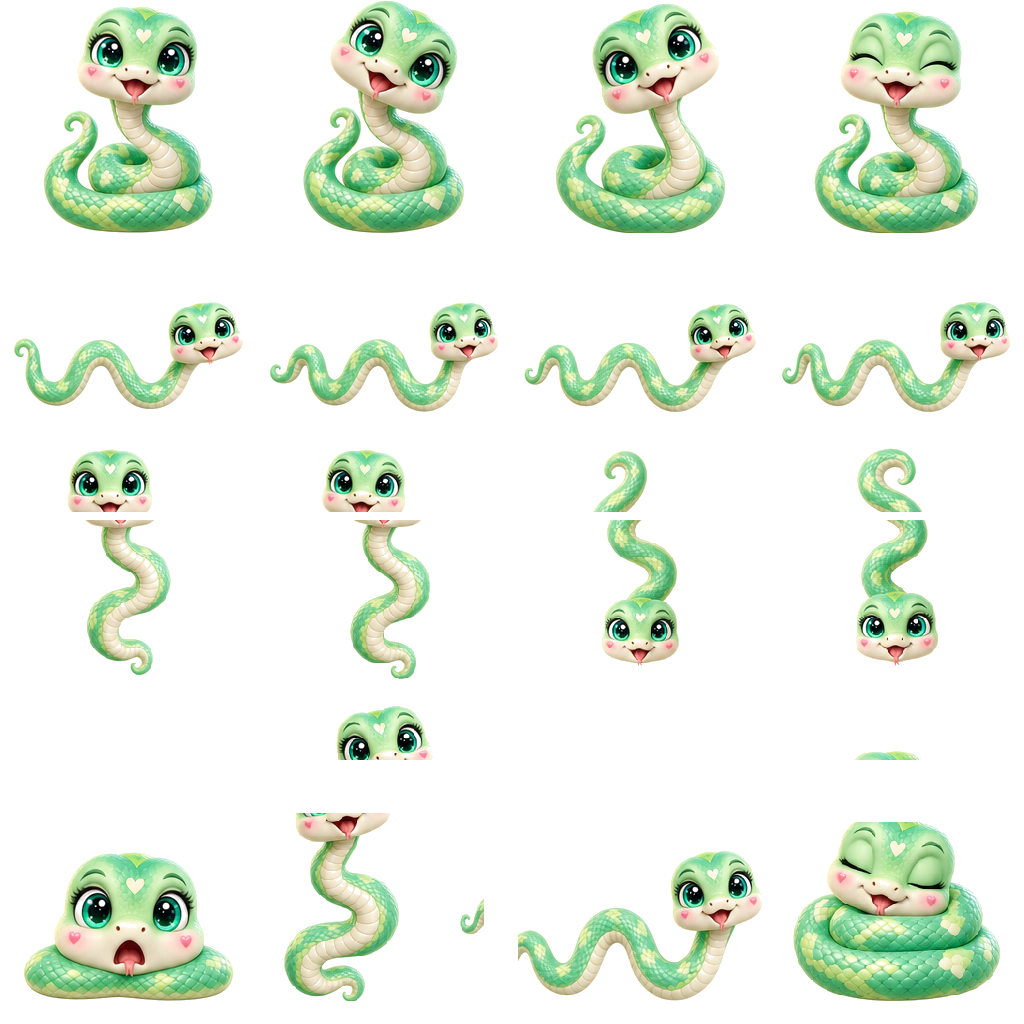
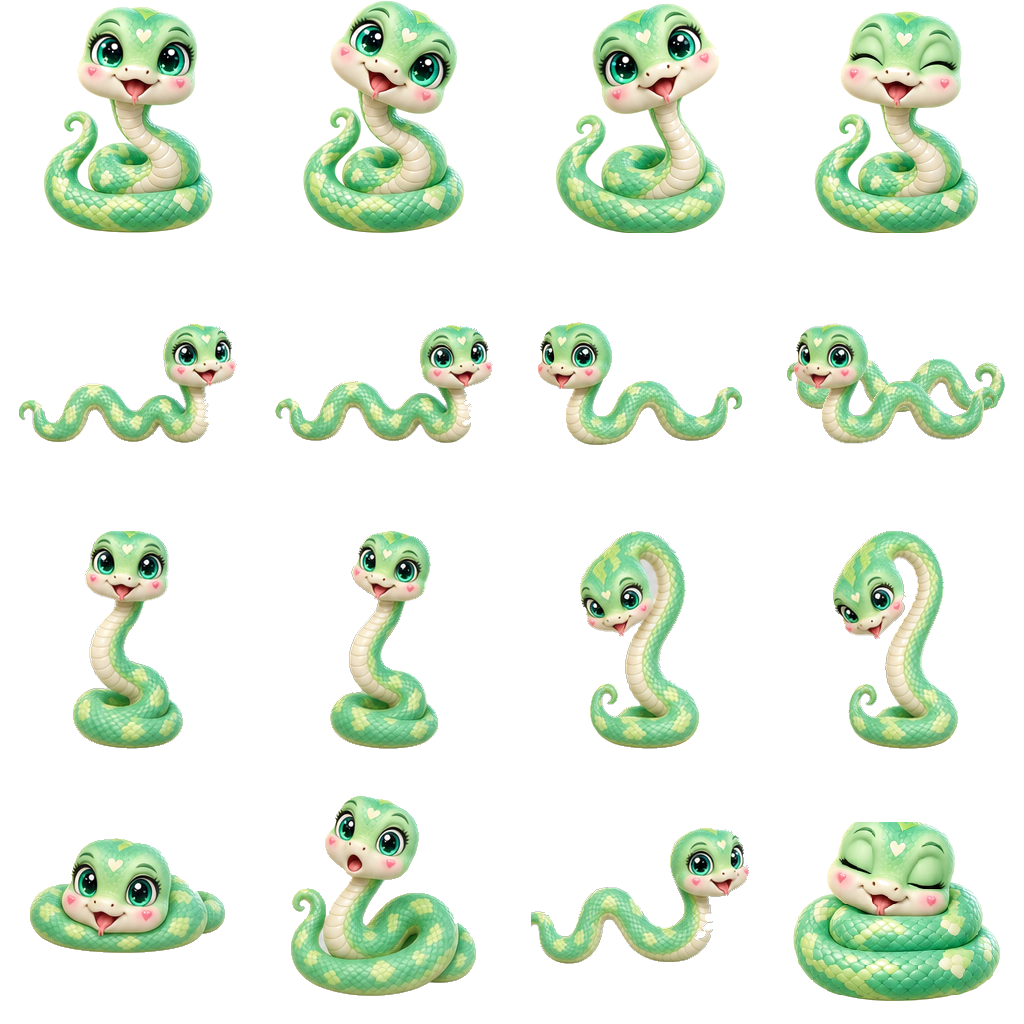
fix(menta): reparar frames cortados y separar poses direccionales

diff --git a/app/src/main/java/com/pixelpals/app/feature/overlay/behavior/MentaBehavior.kt b/app/src/main/java/com/pixelpals/app/feature/overlay/behavior/MentaBehavior.kt
@@ -121,9 +121,9 @@ class MentaBehavior(
         bridge.animOffsetX = sin(time * 2.2f) * 4f
         bridge.animOffsetY = sin(time * 1.6f) * 2f
         bridge.animRotation = 0f   // siempre de frente, sin golpeteos de cabeza
-        // Las cuatro poses 4-7 son fases consecutivas de la onda. Se refleja
-        // solo para que la cabeza lidere hacia la izquierda; la cara es frontal.
-        bridge.animScaleX = if (facingRight) 1f else -1f
+        // Cada dirección tiene sus propias poses dibujadas: no espejar la
+        // serpiente, porque el atlas ya coloca la cabeza delante del cuerpo.
+        bridge.animScaleX = 1f
         bridge.animScaleY = 1f + sin(time * 2.0f) * 0.02f
 
         // La onda viaja sincronizada con el avance: cada pose corresponde a
@@ -135,10 +135,11 @@ class MentaBehavior(
                 (cruiseTargetY - startY) * (cruiseTargetY - startY)
         )
         val travelled = distance * t
-        // Cuatro fases completas repetidas durante el trayecto: el contoneo
-        // recorre todo el cuerpo mientras la cabeza avanza.
-        val wave = (travelled / 42f).toInt() % 4
-        bridge.currentFrame = 4 + wave
+        // Dos fases por dirección, repetidas según los píxeles recorridos.
+        // right = 4-5; left = 6-7.
+        val wave = (travelled / 42f).toInt() % 2
+        val poseBase = if (facingRight) 4 else 6
+        bridge.currentFrame = poseBase + wave
 
         if (random.nextFloat() < 0.00025f) {
             mode = Mode.HAPPY
@@ -176,13 +177,12 @@ class MentaBehavior(
         val distance = kotlin.math.abs(cruiseTargetY - startY)
         val travelled = distance * t
         val wave = (travelled / 42f).toInt() and 1
-        // La pose base de subida tiene la cabeza arriba. Para bajar se voltea
-        // verticalmente: la cabeza pasa inequívocamente al extremo inferior,
-        // que es el que lidera el desplazamiento descendente.
-        bridge.currentFrame = 8 + wave
+        // El atlas tiene dos grupos dibujados: up = 8-9, down = 10-11.
+        // No se voltea la imagen: cada pose conserva la cara y la cabeza líder.
+        bridge.currentFrame = (if (movingDown) 10 else 8) + wave
         bridge.animRotation = 0f
         bridge.animScaleX = 1f
-        bridge.animScaleY = if (movingDown) -1f else 1f
+        bridge.animScaleY = 1f
         bridge.animOffsetX = sin(time * 1.8f) * 2f
         bridge.animOffsetY = sin(time * 1.4f) * 1.5f
     }

diff --git a/app/src/main/java/com/pixelpals/app/PetView.kt b/app/src/main/java/com/pixelpals/app/PetView.kt
@@ -106,7 +106,7 @@ class PetView(
         PetType.YUKI -> 0.901f          // idle alto Pixar opaco 0.891 -> 0.802
         PetType.PIRU -> 0.892f          // idle pingüino Pixar 0.898 -> 0.802
         PetType.TARO -> 0.988f          // idle tortuga Pixar 0.812 -> 0.802
-        PetType.MENTA -> 0.908f         // idle serpiente Pixar 0.883 -> 0.802
+        PetType.MENTA -> 0.908f         // idle serpiente Pixar opaco 0.883 -> 0.802
         PetType.TELA -> 0.880f          // idle araña Pixar 0.910 -> 0.802
     }
 
@@ -153,7 +153,7 @@ class PetView(
         PetType.YUKI -> floatArrayOf(0.8906f, 0.8984f, 0.8789f, 0.8984f, 0.8281f, 0.8086f, 0.7461f, 0.7930f, 0.8008f, 0.8047f, 0.8008f, 0.8125f, 0.7422f, 0.7969f, 0.7773f, 0.8125f)
         PetType.PIRU -> floatArrayOf(0.8984f, 0.9062f, 0.8828f, 0.9102f, 0.8594f, 0.8438f, 0.7969f, 0.8047f, 0.8203f, 0.8242f, 0.8516f, 0.8516f, 0.7266f, 0.6602f, 0.8047f, 0.8594f)
         PetType.TARO -> floatArrayOf(0.8125f, 0.8125f, 0.8086f, 0.7656f, 0.9102f, 0.9102f, 0.8398f, 0.8633f, 0.9102f, 0.9102f, 0.9102f, 0.6797f, 0.6055f, 0.6328f, 0.6562f, 0.6797f)
-        PetType.MENTA -> floatArrayOf(0.8828f, 0.9062f, 0.8984f, 0.8672f, 0.8203f, 0.8164f, 0.8125f, 0.8203f, 0.6055f, 0.9375f, 0.5703f, 0.9375f, 0.5820f, 0.7344f, 0.5859f, 0.6992f)
+        PetType.MENTA -> floatArrayOf(0.8828f, 0.9062f, 0.8984f, 0.8672f, 0.4648f, 0.4609f, 0.4805f, 0.4727f, 0.8516f, 0.8516f, 0.8516f, 0.8516f, 0.4492f, 0.7812f, 0.5312f, 0.6992f)
         PetType.TELA -> floatArrayOf(0.9102f, 0.9102f, 0.8945f, 0.8984f, 0.6875f, 0.7188f, 0.8164f, 0.7109f, 0.5469f, 0.7305f, 0.7422f, 0.7500f, 0.4648f, 0.5508f, 0.7578f, 0.6211f)
     }
 
